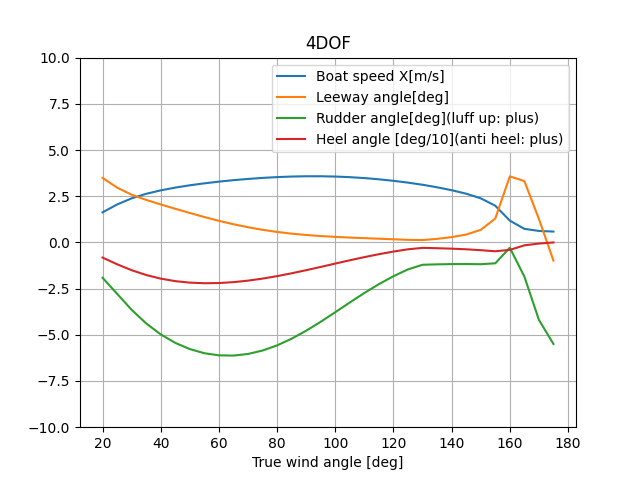
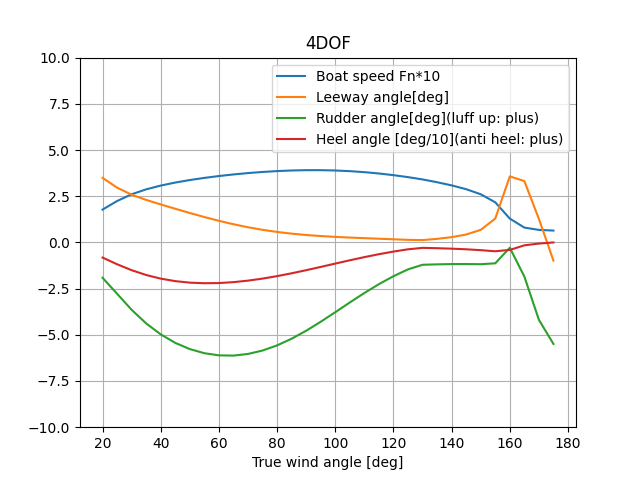
mod plot4d

diff --git a/vpp4d.py b/vpp4d.py
@@ -39,11 +39,12 @@ class VPP4D:
         plt.clf()
         plt.close()
 
-    def plot(self,ymin,ymax):    
-        plt.plot(self.dat[0], self.dat[1],    label="Boat speed X[m/s]")
-        plt.plot(self.dat[0], self.dat[2],    label="Leeway angle[deg]")
-        plt.plot(self.dat[0], self.dat[3],    label="Rudder angle[deg](luff up: plus)")
-        plt.plot(self.dat[0], self.dat[4]/10, label="Heel angle [deg/10](anti heel: plus)")
+    def plot(self,ymin,ymax):
+        a = np.sqrt(self.cts.lwl*self.cts.g)
+        plt.plot(self.dat[0], self.dat[1]/a*10, label="Boat speed Fn*10")
+        plt.plot(self.dat[0], self.dat[2],      label="Leeway angle[deg]")
+        plt.plot(self.dat[0], self.dat[3],      label="Rudder angle[deg](luff up: plus)")
+        plt.plot(self.dat[0], self.dat[4]/10,   label="Heel angle [deg/10](anti heel: plus)")
         plt.xlabel("True wind angle [deg]")
         plt.ylim(ymin,ymax)
         plt.legend()
